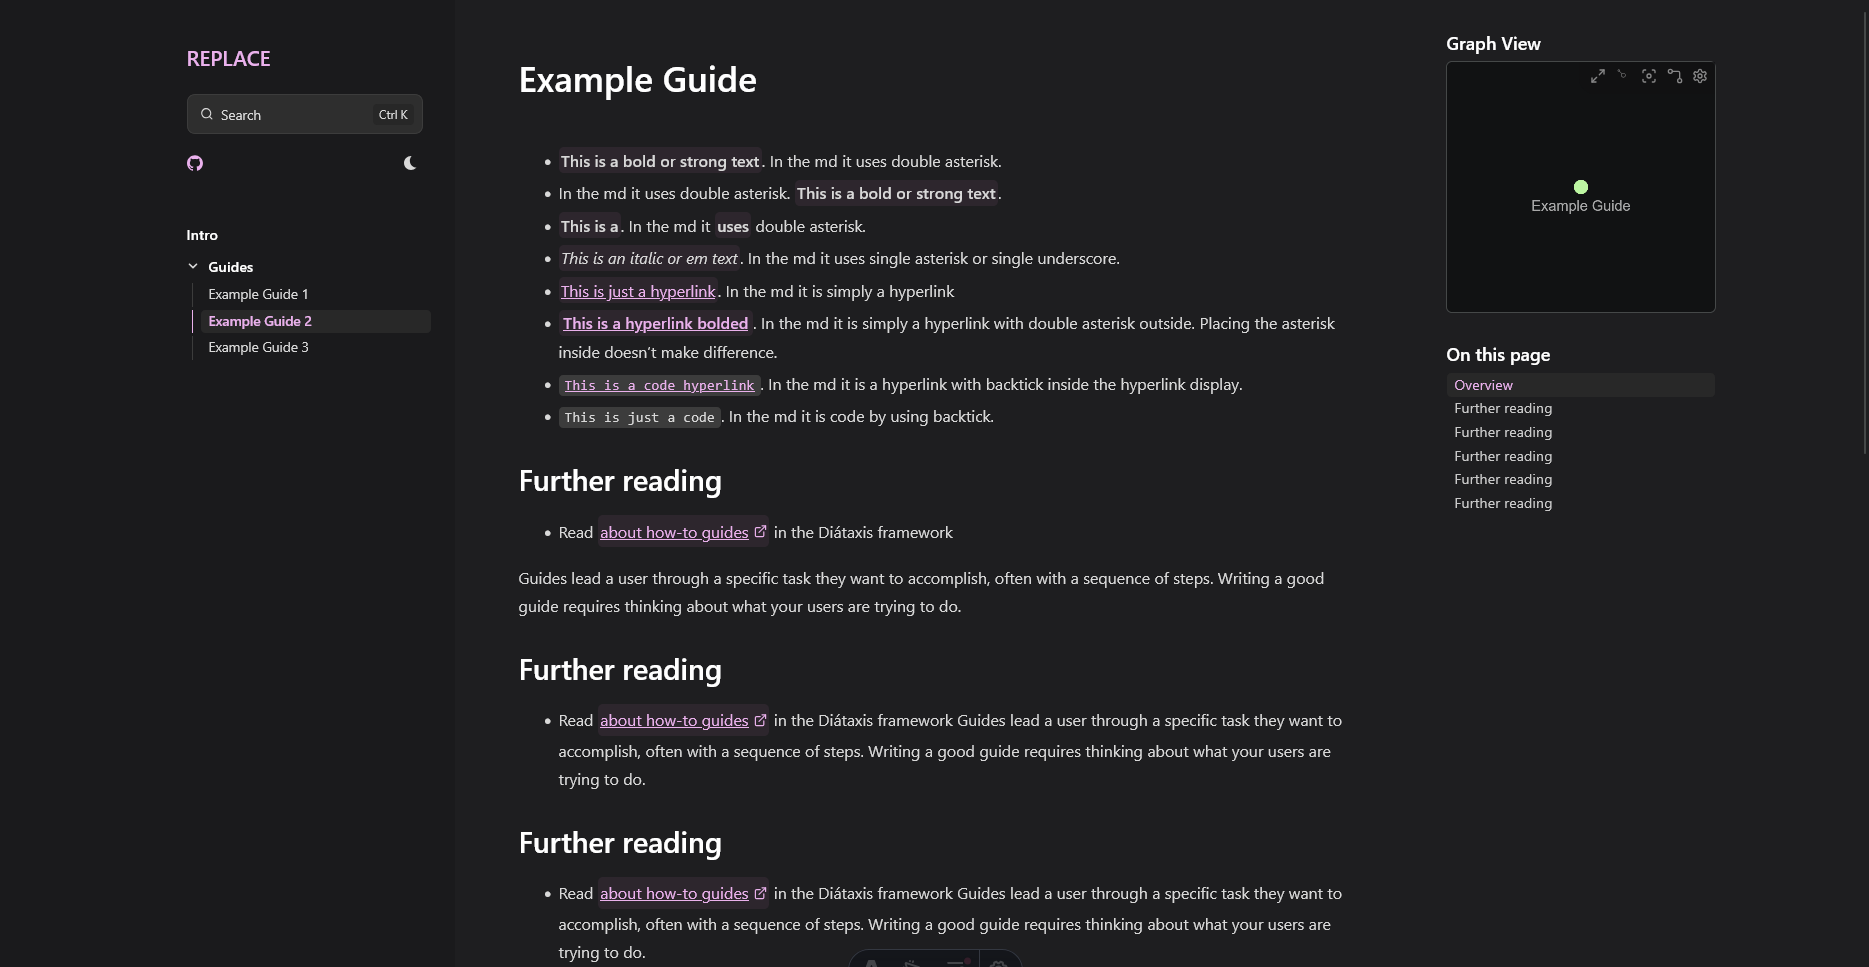
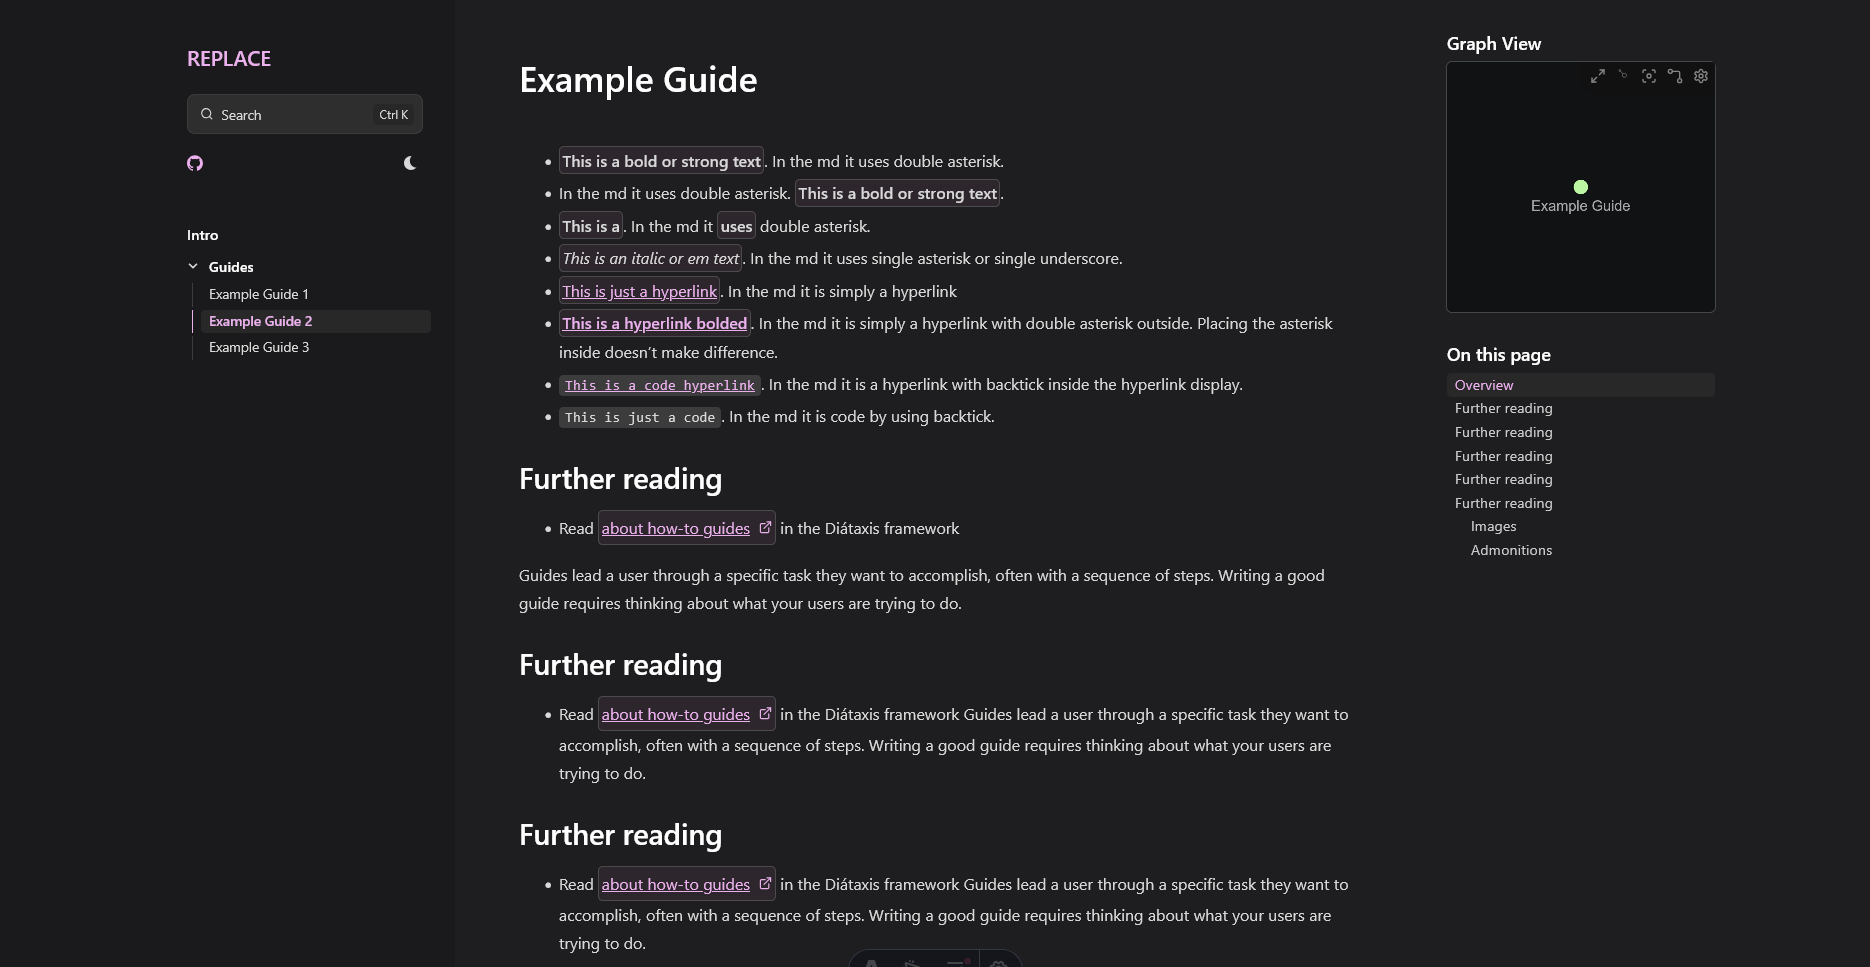
Update CSS, add border for strong text in dark mode, fix double border issue on hyperlink

diff --git a/src/assets/custom.css b/src/assets/custom.css
@@ -21,6 +21,12 @@
   --custom-border-color: #454848;
   --custom-mobile-header-shadow-color: rgba(255, 255, 255, 0.3);
   --custom-body-highlight-color: #2d262d;
+
+  .sl-markdown-content strong:not(:has(> code)),
+  .sl-markdown-content em,
+  .sl-markdown-content a:not(:has(> code)) {
+    border: 1px solid #4c4b4b;
+  }
 }
 
 /* Light mode colors. */
@@ -83,6 +89,26 @@
     background-color: var(--custom-body-highlight-color);
     padding: 0.15rem;
     border-radius: 0.3rem;
+    display: inline;
+    -webkit-box-decoration-break: clone;
+    box-decoration-break: clone;
+  }
+
+  .sl-markdown-content a:not(:has(> code)) span {
+    display: inline-flex;
+    vertical-align: center;
+    align-self: center;
+    margin-left: 0.25rem;
+  }
+
+  .sl-markdown-content strong > a:not(:has(> code)),
+  .sl-markdown-content a:not(:has(> code)) > strong {
+    border: none !important;
+    background: transparent !important;
+    box-shadow: none !important;
+    padding: 0 !important;
+    -webkit-box-decoration-break: initial !important;
+    box-decoration-break: initial !important;
   }
 
   .sl-markdown-content a[target="_blank"] {
